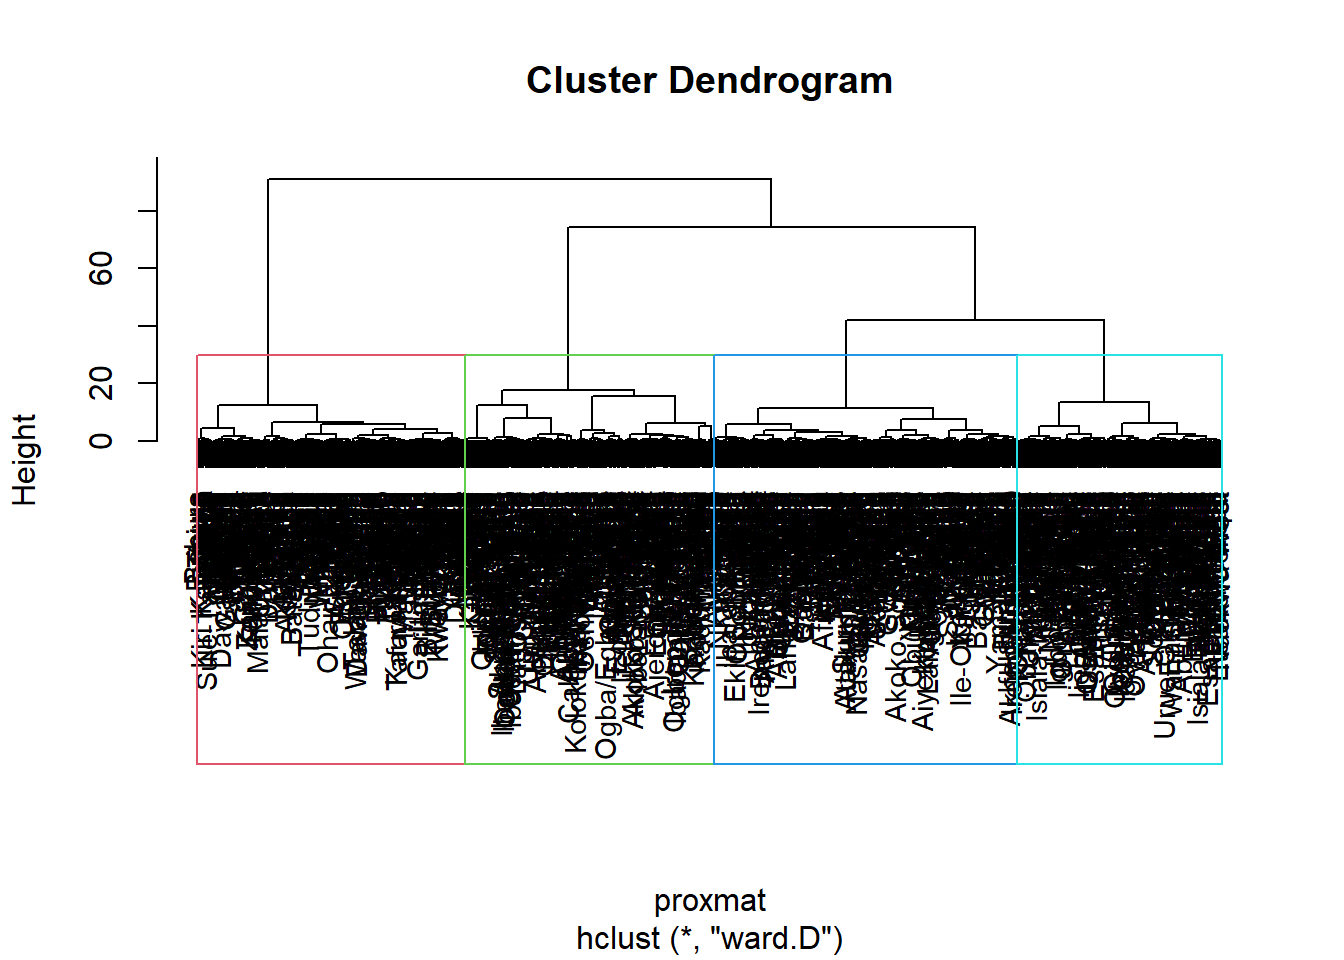
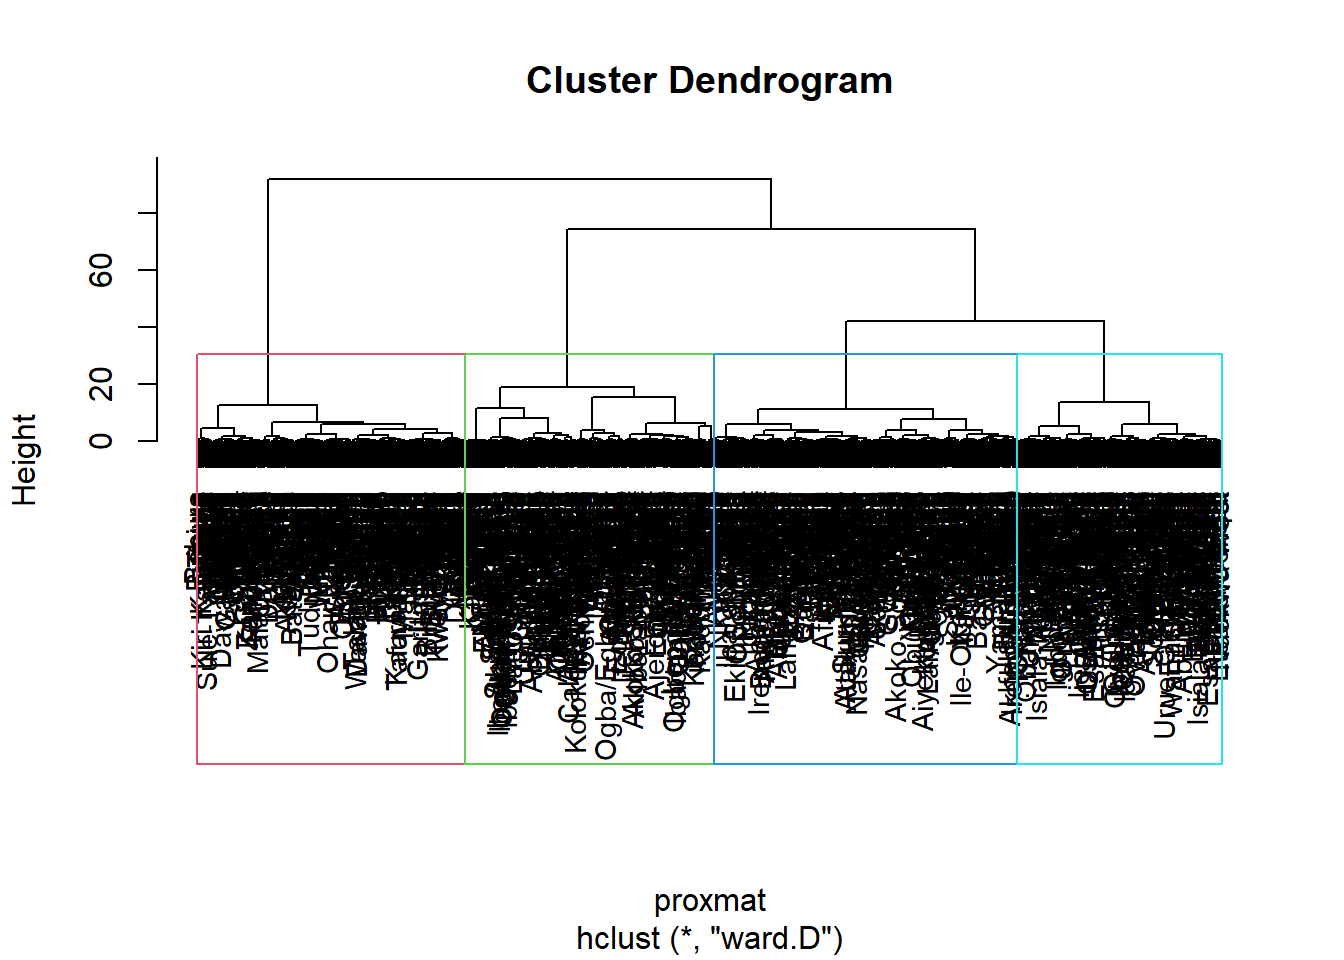
commit of take-home_Ex2

diff --git a/_site/Take-home_Ex2/Take-home_Ex2.html b/_site/Take-home_Ex2/Take-home_Ex2.html
@@ -691,17 +691,16 @@ code span.wa { color: #60a0b0; font-weight: bold; font-style: italic; } /* Warni
 <div class="sourceCode cell-code" id="cb34"><pre class="sourceCode r code-with-copy"><code class="sourceCode r"><span id="cb34-1"><a href="#cb34-1" aria-hidden="true" tabindex="-1"></a>NaN_list <span class="ot">&lt;-</span> <span class="fu">is.nan</span>(nigeria_wp<span class="sc">$</span>pct_functional)</span>
 <span id="cb34-2"><a href="#cb34-2" aria-hidden="true" tabindex="-1"></a>nigeria_wp<span class="sc">$</span>pct_functional[NaN_list] <span class="ot">&lt;-</span> <span class="dv">0</span></span>
 <span id="cb34-3"><a href="#cb34-3" aria-hidden="true" tabindex="-1"></a></span>
-<span id="cb34-4"><a href="#cb34-4" aria-hidden="true" tabindex="-1"></a>NaN_list <span class="ot">&lt;-</span> <span class="fu">is.nan</span>(nigeria_wp<span class="sc">$</span><span class="st">`</span><span class="at">pct_non-functional</span><span class="st">`</span>)</span>
-<span id="cb34-5"><a href="#cb34-5" aria-hidden="true" tabindex="-1"></a>nigeria_wp<span class="sc">$</span><span class="st">`</span><span class="at">pct_non-functional</span><span class="st">`</span>[NaN_list] <span class="ot">&lt;-</span> <span class="dv">0</span></span>
-<span id="cb34-6"><a href="#cb34-6" aria-hidden="true" tabindex="-1"></a></span>
-<span id="cb34-7"><a href="#cb34-7" aria-hidden="true" tabindex="-1"></a>NaN_list <span class="ot">&lt;-</span> <span class="fu">is.nan</span>(nigeria_wp<span class="sc">$</span>pct_handpump)</span>
-<span id="cb34-8"><a href="#cb34-8" aria-hidden="true" tabindex="-1"></a>nigeria_wp<span class="sc">$</span>pct_handpump[NaN_list] <span class="ot">&lt;-</span> <span class="dv">0</span></span>
-<span id="cb34-9"><a href="#cb34-9" aria-hidden="true" tabindex="-1"></a></span>
-<span id="cb34-10"><a href="#cb34-10" aria-hidden="true" tabindex="-1"></a>NaN_list <span class="ot">&lt;-</span> <span class="fu">is.nan</span>(nigeria_wp<span class="sc">$</span>pct_usage_above_1k)</span>
-<span id="cb34-11"><a href="#cb34-11" aria-hidden="true" tabindex="-1"></a>nigeria_wp<span class="sc">$</span>pct_usage_above_1k[NaN_list] <span class="ot">&lt;-</span> <span class="dv">0</span></span>
-<span id="cb34-12"><a href="#cb34-12" aria-hidden="true" tabindex="-1"></a></span>
-<span id="cb34-13"><a href="#cb34-13" aria-hidden="true" tabindex="-1"></a>NaN_list <span class="ot">&lt;-</span> <span class="fu">is.nan</span>(nigeria_wp<span class="sc">$</span>pct_rural)</span>
-<span id="cb34-14"><a href="#cb34-14" aria-hidden="true" tabindex="-1"></a>nigeria_wp<span class="sc">$</span>pct_rural[NaN_list] <span class="ot">&lt;-</span> <span class="dv">0</span></span></code><button title="Copy to Clipboard" class="code-copy-button"><i class="bi"></i></button></pre></div>
+<span id="cb34-4"><a href="#cb34-4" aria-hidden="true" tabindex="-1"></a></span>
+<span id="cb34-5"><a href="#cb34-5" aria-hidden="true" tabindex="-1"></a></span>
+<span id="cb34-6"><a href="#cb34-6" aria-hidden="true" tabindex="-1"></a>NaN_list <span class="ot">&lt;-</span> <span class="fu">is.nan</span>(nigeria_wp<span class="sc">$</span>pct_handpump)</span>
+<span id="cb34-7"><a href="#cb34-7" aria-hidden="true" tabindex="-1"></a>nigeria_wp<span class="sc">$</span>pct_handpump[NaN_list] <span class="ot">&lt;-</span> <span class="dv">0</span></span>
+<span id="cb34-8"><a href="#cb34-8" aria-hidden="true" tabindex="-1"></a></span>
+<span id="cb34-9"><a href="#cb34-9" aria-hidden="true" tabindex="-1"></a>NaN_list <span class="ot">&lt;-</span> <span class="fu">is.nan</span>(nigeria_wp<span class="sc">$</span>pct_usage_above_1k)</span>
+<span id="cb34-10"><a href="#cb34-10" aria-hidden="true" tabindex="-1"></a>nigeria_wp<span class="sc">$</span>pct_usage_above_1k[NaN_list] <span class="ot">&lt;-</span> <span class="dv">0</span></span>
+<span id="cb34-11"><a href="#cb34-11" aria-hidden="true" tabindex="-1"></a></span>
+<span id="cb34-12"><a href="#cb34-12" aria-hidden="true" tabindex="-1"></a>NaN_list <span class="ot">&lt;-</span> <span class="fu">is.nan</span>(nigeria_wp<span class="sc">$</span>pct_rural)</span>
+<span id="cb34-13"><a href="#cb34-13" aria-hidden="true" tabindex="-1"></a>nigeria_wp<span class="sc">$</span>pct_rural[NaN_list] <span class="ot">&lt;-</span> <span class="dv">0</span></span></code><button title="Copy to Clipboard" class="code-copy-button"><i class="bi"></i></button></pre></div>
 </div>
 <p>We run the code as follow:</p>
 <div class="cell">
@@ -716,7 +715,7 @@ code span.wa { color: #60a0b0; font-weight: bold; font-style: italic; } /* Warni
 <pre><code>    ADM2_EN wpt functional wpt non-functional pct_functional pct_non-functional
 1 Aba North              7                  9      0.4117647          0.5294118
 2 Aba South             29                 35      0.4084507          0.4929577
-3    Abadam              0                  0      0.0000000          0.0000000
+3    Abadam              0                  0      0.0000000                NaN
   pct_handpump pct_usage_below_1k  pct_rural
 1   0.11764706          0.1764706 0.00000000
 2   0.09859155          0.1267606 0.05633803
@@ -735,7 +734,7 @@ Abadam       Abadam              0                  0      0.0000000
           pct_non-functional pct_handpump pct_usage_below_1k  pct_rural
 Aba North          0.5294118   0.11764706          0.1764706 0.00000000
 Aba South          0.4929577   0.09859155          0.1267606 0.05633803
-Abadam             0.0000000   0.00000000                NaN 0.00000000</code></pre>
+Abadam                   NaN   0.00000000                NaN 0.00000000</code></pre>
 </div>
 </div>
 <p>Now, we do not need the column ADM2_EN &amp; pct_usage_below_1k anymore, so we exclude it:</p>
@@ -746,7 +745,7 @@ Abadam             0.0000000   0.00000000                NaN 0.00000000</code></
 <pre><code>          wpt functional wpt non-functional pct_functional pct_non-functional
 Aba North              7                  9      0.4117647          0.5294118
 Aba South             29                 35      0.4084507          0.4929577
-Abadam                 0                  0      0.0000000          0.0000000
+Abadam                 0                  0      0.0000000                NaN
           pct_handpump  pct_rural
 Aba North   0.11764706 0.00000000
 Aba South   0.09859155 0.05633803
@@ -765,18 +764,20 @@ Abadam      0.00000000 0.00000000</code></pre>
 <div class="cell-output cell-output-stdout">
 <pre><code> wpt functional    wpt non-functional pct_functional   pct_non-functional
  Min.   :0.00000   Min.   :0.00000    Min.   :0.0000   Min.   :0.0000    
- 1st Qu.:0.02261   1st Qu.:0.04406    1st Qu.:0.3261   1st Qu.:0.2105    
- Median :0.06051   Median :0.12230    Median :0.4741   Median :0.3505    
- Mean   :0.08957   Mean   :0.14962    Mean   :0.4984   Mean   :0.3592    
- 3rd Qu.:0.11669   3rd Qu.:0.21853    3rd Qu.:0.6699   3rd Qu.:0.5076    
+ 1st Qu.:0.02261   1st Qu.:0.04406    1st Qu.:0.3261   1st Qu.:0.2211    
+ Median :0.06051   Median :0.12230    Median :0.4741   Median :0.3559    
+ Mean   :0.08957   Mean   :0.14962    Mean   :0.4984   Mean   :0.3654    
+ 3rd Qu.:0.11669   3rd Qu.:0.21853    3rd Qu.:0.6699   3rd Qu.:0.5082    
  Max.   :1.00000   Max.   :1.00000    Max.   :1.0000   Max.   :1.0000    
+                                                       NA's   :13        
   pct_handpump      pct_rural     
  Min.   :0.0000   Min.   :0.0000  
  1st Qu.:0.1670   1st Qu.:0.5727  
  Median :0.5099   Median :0.8645  
  Mean   :0.4873   Mean   :0.7271  
  3rd Qu.:0.7778   3rd Qu.:1.0000  
- Max.   :1.0000   Max.   :1.0000  </code></pre>
+ Max.   :1.0000   Max.   :1.0000  
+                                  </code></pre>
 </div>
 </div>
 </section>
@@ -841,7 +842,7 @@ Using the dist() of the base R package, we will compute the proximity matrix:</p
 <div class="sourceCode cell-code" id="cb46"><pre class="sourceCode r code-with-copy"><code class="sourceCode r"><span id="cb46-1"><a href="#cb46-1" aria-hidden="true" tabindex="-1"></a>agnes_result <span class="ot">&lt;-</span> <span class="fu">agnes</span>(std_cluster_vars, <span class="at">method =</span> <span class="st">"ward"</span>)</span>
 <span id="cb46-2"><a href="#cb46-2" aria-hidden="true" tabindex="-1"></a>agnes_result<span class="sc">$</span>ac</span></code><button title="Copy to Clipboard" class="code-copy-button"><i class="bi"></i></button></pre></div>
 <div class="cell-output cell-output-stdout">
-<pre><code>[1] 0.990276</code></pre>
+<pre><code>[1] 0.9899909</code></pre>
 </div>
 </div>
 <p>The results are stored in the output data structure under the name agnes_result$ac. The higher the magnitude of this value, the better the clustering structure. In this case, “ward” gets a score of 0.9899133 which shows strong clustering structure.</p>
@@ -866,7 +867,7 @@ Using the dist() of the base R package, we will compute the proximity matrix:</p
 <div class="sourceCode cell-code" id="cb51"><pre class="sourceCode r code-with-copy"><code class="sourceCode r"><span id="cb51-1"><a href="#cb51-1" aria-hidden="true" tabindex="-1"></a><span class="fu">map_dbl</span>(algorithms, test)</span></code><button title="Copy to Clipboard" class="code-copy-button"><i class="bi"></i></button></pre></div>
 <div class="cell-output cell-output-stdout">
 <pre><code>  average    single  complete      ward 
-0.9114067 0.7819154 0.9440637 0.9902760 </code></pre>
+0.8975130 0.7822181 0.9442809 0.9899909 </code></pre>
 </div>
 </div>
 <p>Of the clustering algorithms, we can see that “ward” methods gives us the best clustering structure. Hence we will use this for the rest of the analysis.</p>
@@ -1070,7 +1071,7 @@ Link number distribution:
 Weights style: B 
 Weights constants summary:
     n     nn       S0       S1       S2
-B 773 597529 3199.663 5587.281 64117.47</code></pre>
+B 773 597529 3209.808 5653.652 64754.63</code></pre>
 </div>
 </div>
 <h2 id="construct-minimum-spanning-tree" class="anchored">Construct Minimum Spanning Tree</h2>
